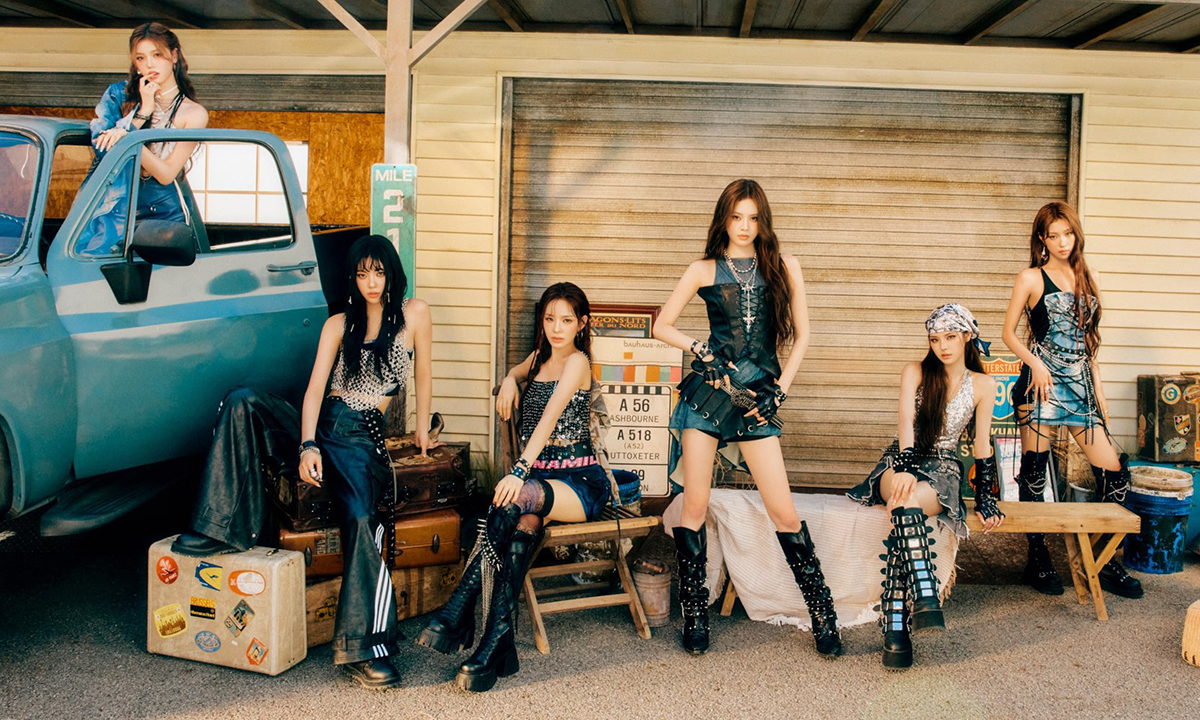
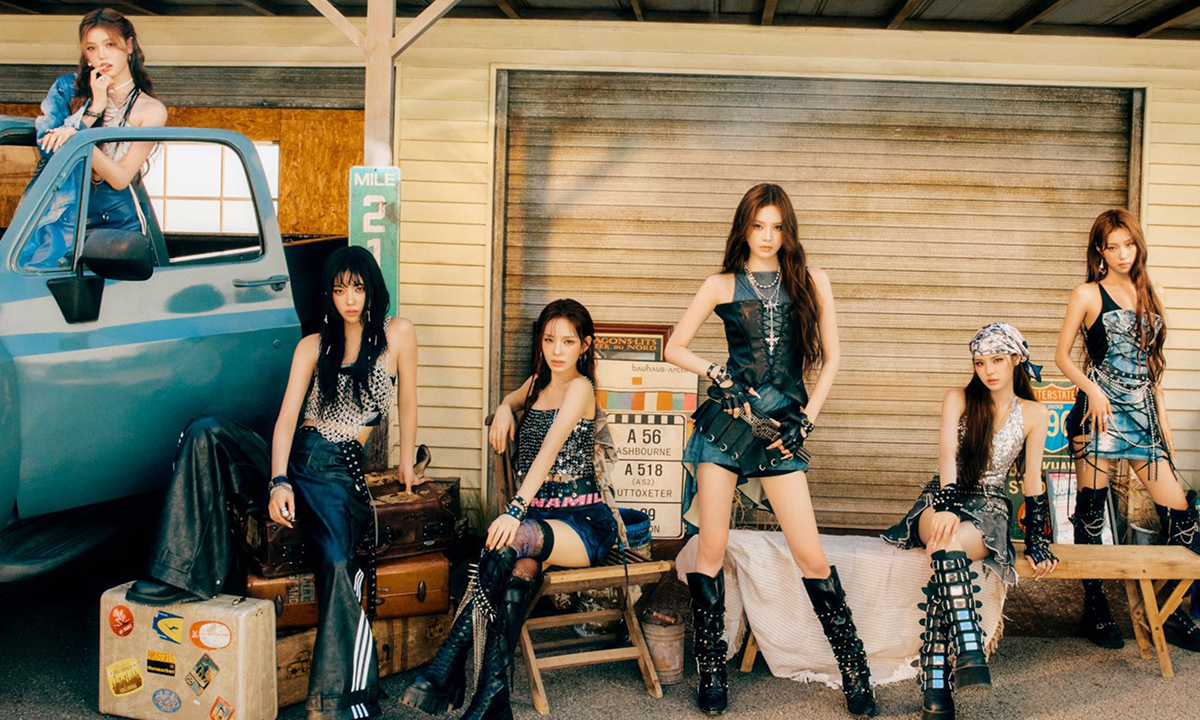
🎀 Feat: uuid 연동

diff --git a/src/components/Home/Banner.tsx b/src/components/Home/Banner.tsx
@@ -6,6 +6,13 @@ import BannerPolaroid from "../../components/Home/BannerPolaroid";
 import Day1Artist1 from "../../assets/home/Day1-CherryFilter-home.png"
 import Day1Artist2 from "../../assets/home/Day1-Izna-home.png"
 import Day1Artist3 from "../../assets/home/Day1-LeeChaeyeon-home.png"
+import Day2Artist1 from "../../assets/home/Day2-ChoiYuRee-home.png"
+import Day2Artist2 from "../../assets/home/Day2-Cosmosy-home.png"
+import Day3Artist1 from "../../assets/home/Day3-AtHeart-home.png"
+import Day3Artist2 from "../../assets/home/Day3-KiiKii-home.png"
+import Day3Artist3 from "../../assets/home/Day3-Seori-home.png"
+import Day3Artist4 from "../../assets/home/Day3-Sunmi-home.png"
+
 
 interface BannerItem {
   title: string;
@@ -18,11 +25,36 @@ interface BannerProps {
   isPaused?: boolean;
 }
 
+const artistImagesByDay = {
+  day1: [Day1Artist1, Day1Artist2, Day1Artist3],
+  day2: [Day2Artist1, Day2Artist2,],
+  day3: [Day3Artist1, Day3Artist2, Day3Artist3, Day3Artist4],
+};
+
+// const currentDay: keyof typeof artistImagesByDay = "day1";
+// 개발 테스트용 코드
+// 날짜별로 아티스트 잘 바뀌는지 확인하고 싶으면 38~51번째 줄까지 주석처리 후에 이 코드 살려주세요!
+
+const getCurrentFestivalDay = (): keyof typeof artistImagesByDay => {
+  const today = new Date();
+
+  const month = today.getMonth() + 1;
+  const date = today.getDate();
+
+  if (month === 5 && date === 13) return "day1";
+  if (month === 5 && date === 14) return "day2";
+  if (month === 5 && date === 15) return "day3";
+
+  return "day1";
+};
+
+const currentDay = getCurrentFestivalDay();
+
 const banners: BannerItem[] = [
   {
     title: "오늘의 아티스트",
     stickerText: "플레이리스트 예습하기🎧",
-    images: [Day1Artist1, Day1Artist2, Day1Artist3],
+    images: artistImagesByDay[currentDay],
     link: "/artist",
   },
   {

diff --git a/src/components/Home/OnBoarding.tsx b/src/components/Home/OnBoarding.tsx
@@ -1,3 +1,4 @@
+import { useEffect } from "react";
 import * as S from "../../styles/OnBoard.style";
 import { useNavigate } from "react-router-dom";
 
@@ -6,7 +7,41 @@ interface OnBoardingProps {
 }
 
 export default function OnBoarding({ onClose }: OnBoardingProps) {
-    const navigate = useNavigate();
+  const navigate = useNavigate();
+  
+
+  useEffect(() => {
+    const initGuestUser = async () => {
+      const savedUuid = localStorage.getItem("guest_uuid");
+
+      if (savedUuid) return;
+
+      try {
+        const response = await fetch(
+          `${import.meta.env.VITE_API_URL}/api/users/guest`,
+          {
+            method: "POST",
+            headers: {
+              "Content-Type": "application/json",
+            },
+          }
+        );
+
+        const data = await response.json();
+
+        if (data.isSuccess && data.result?.uuid) {
+          localStorage.setItem("guest_uuid", data.result.uuid);
+        } else {
+          console.error("게스트 UUID 발급 실패:", data.message);
+        }
+      } catch (error) {
+        console.error("게스트 사용자 생성 요청 실패:", error);
+      }
+    };
+
+    initGuestUser();
+  }, []);
+
   return (
     <S.OnBoardWrapper>
         <S.OnBoardBlurArea />
